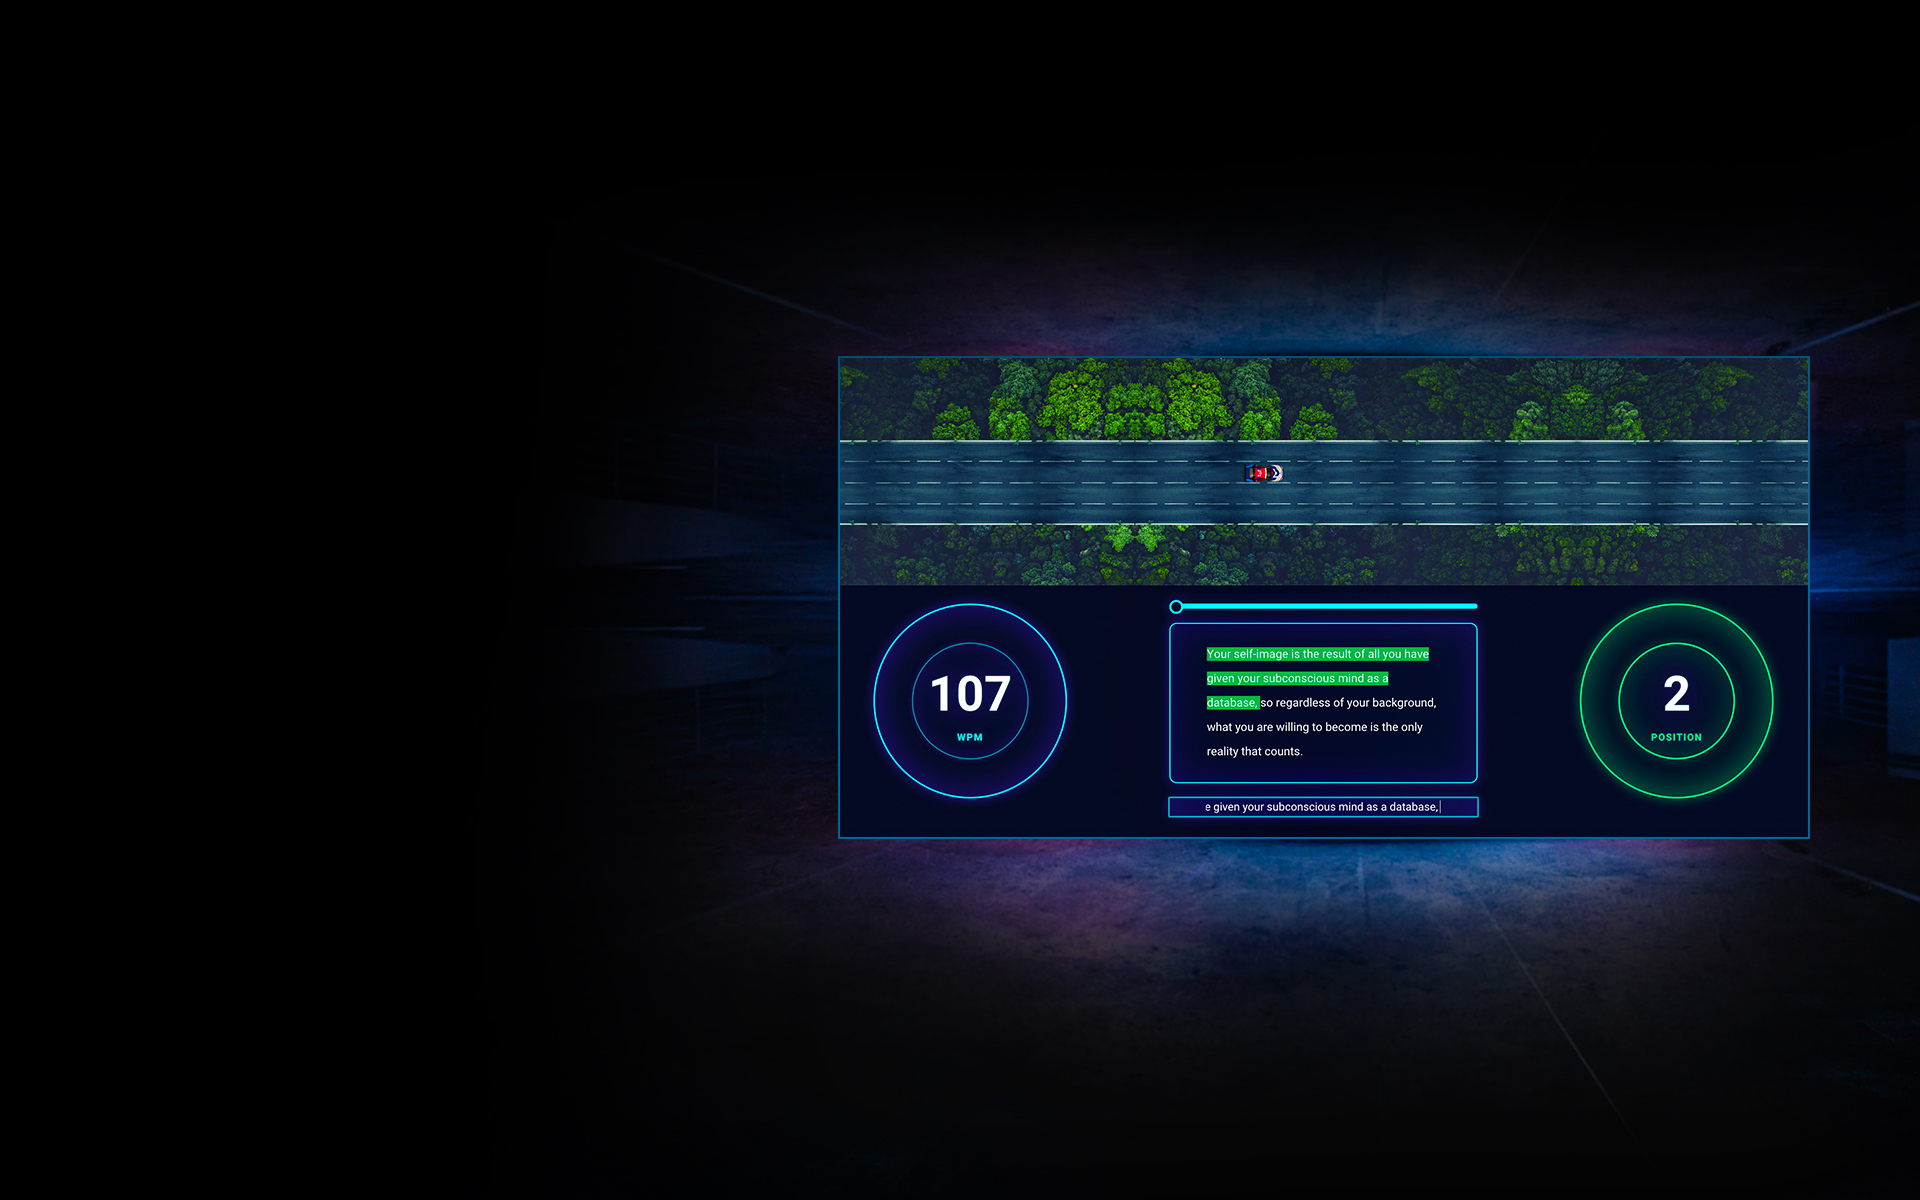
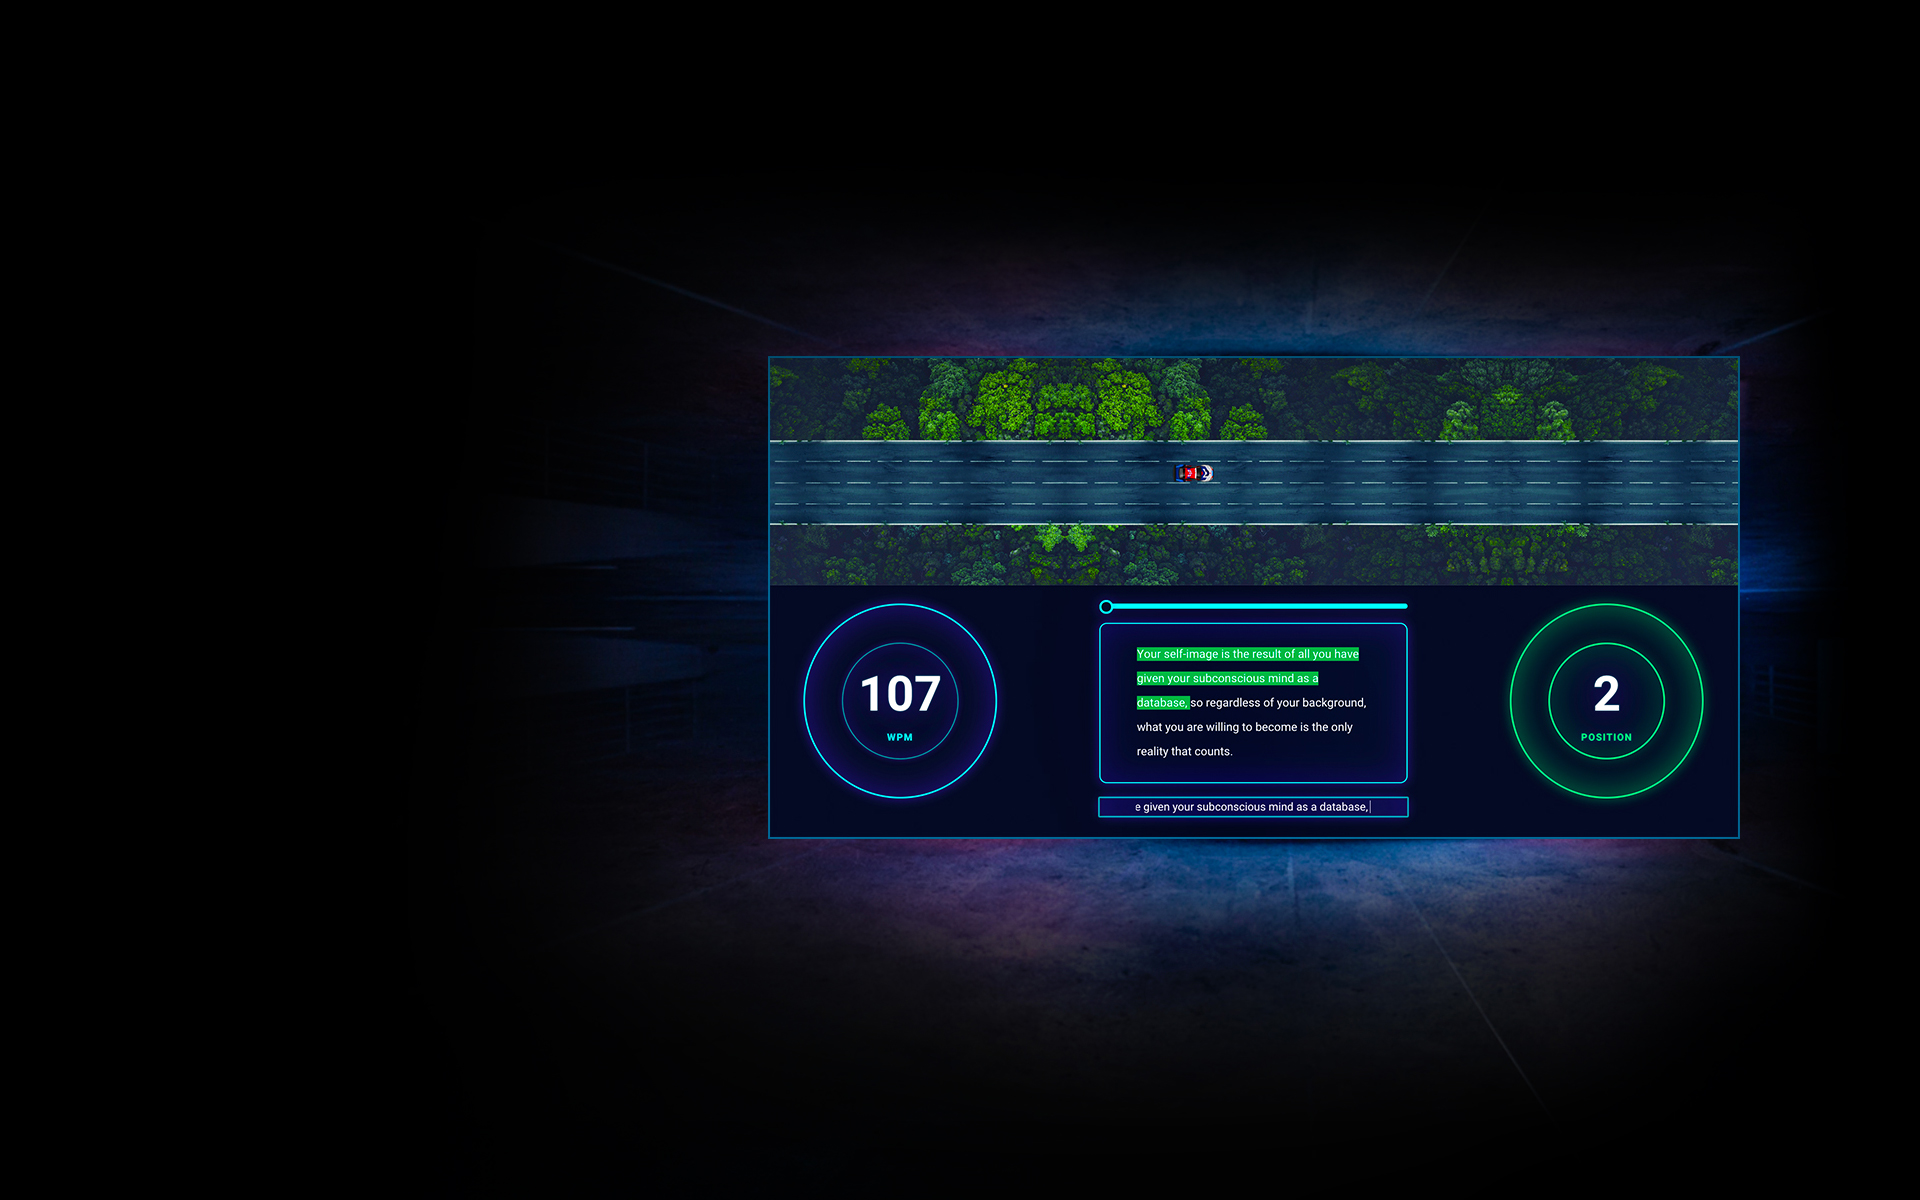
Fix slider positioning for responsive

diff --git a/client/src/components/CarSlider/CarSlider.scss b/client/src/components/CarSlider/CarSlider.scss
@@ -6,7 +6,7 @@
   width: 100vw;
 }
 
-.d-block .w-100 {
+.CarSlideImg .d-block .w-100 {
   @include respond(tab-landscape) {
     position: relative;
     left: -50%;
@@ -30,14 +30,16 @@
   }
 }
 
-.carousel-item {
+.CarSlider-container .carousel-item {
   position: relative;
+  height: 100vh;
+  width: 100vw;
+
   img {
+    position: absolute;
+    height: 100vh;
     top: 0;
-    bottom: 0;
-    left: 0;
     right: 0;
-    margin: auto;
   }
 
   @include respond(tab-landscape) {

diff --git a/client/src/Root.scss b/client/src/Root.scss
@@ -8,7 +8,7 @@ body {
   margin: 0;
   padding: 0;
   font-family: 'Roboto', sans-serif;
-
+  box-sizing: border-box;
   -webkit-font-smoothing: antialiased;
   -moz-osx-font-smoothing: grayscale;
   background-color: #000000;
@@ -35,6 +35,5 @@ html {
 }
 
 code {
-  font-family: source-code-pro, Menlo, Monaco, Consolas, 'Courier New',
-    monospace;
+  font-family: 'Roboto', sans-serif;
 }

diff --git a/client/src/components/CarSlider/ImageSlider.js b/client/src/components/CarSlider/ImageSlider.js
@@ -1,9 +1,5 @@
 import React from 'react';
 
 export default ({ src, className }) => (
-  <img
-    className={`${className} d-block w-100`}
-    src={src}
-    alt="slide for cars"
-  />
+  <img className={`${className}`} src={src} alt="slide for cars" />
 );
